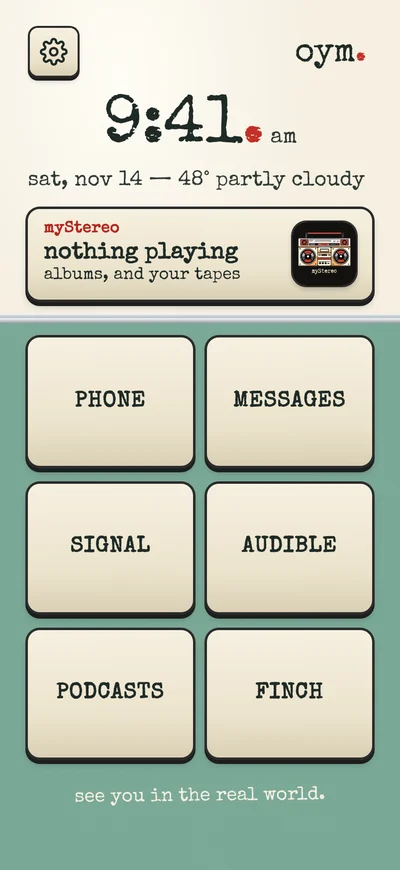
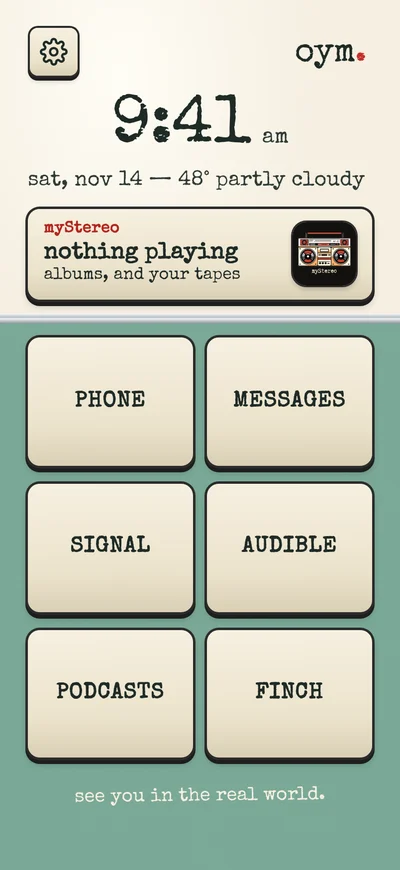
Console 0.1.11: no red dot after the time; the Take one picture shows it
Claude-Session: https://claude.ai/code/session_0141Aj93nrkxU4UMudcKaRvJ

Changed region(s): [[0.27, 0.0931, 0.75, 0.1862]]

diff --git a/mystereo/app/console/index.html b/mystereo/app/console/index.html
@@ -45,7 +45,7 @@ button{background:none;border:0;padding:0;cursor:pointer}
 .chip{border-radius:8px;padding:7px 14px 6px;font-size:15px;box-shadow:0 0 0 2px #2b2b2b,0 3px 0 2px #1e1e1e,0 5px 6px rgba(0,0,0,.22);margin-bottom:3px}
 .chip:active{transform:translateY(2px);box-shadow:0 0 0 2px #2b2b2b,0 1px 0 2px #1e1e1e}
 .clock{font-size:68px;line-height:1;margin:8px 0 0;letter-spacing:-1px;color:var(--ink);text-align:center;font-family:"Special Elite",var(--tw)}   /* 0.1.8 · the clock in the logo's typewriter face */
-.clock small{font-size:22px;margin-left:6px;letter-spacing:0;color:var(--dim)}
+.clock small{font-size:22px;margin-left:12px;letter-spacing:0;color:var(--dim)}
 .date{font-size:21px;margin:8px 0 18px;color:var(--dim)}
 .date button{text-decoration:underline;text-underline-offset:3px}
 /* the strip is a wide keycap, like the six buttons */
@@ -166,7 +166,7 @@ html.custom .band::before{display:none}
 </section>
 <script>
 (() => {
-const VERSION = 'Console 0.1.10';
+const VERSION = 'Console 0.1.11';
 const KEYS = [['phone', 'phone'], ['messages', 'messages'], ['signal', 'signal'], ['audible', 'audible'], ['podcasts', 'podcasts'], ['finch', 'finch']];
 const LINKS = { phone: 'shortcuts://run-shortcut?name=Console%20Phone', messages: 'shortcuts://run-shortcut?name=Console%20Messages', signal: 'sgnl://', audible: 'audible://', podcasts: 'podcasts://', finch: 'shortcuts://run-shortcut?name=Console%20Finch' };
 const STEREO = '../index.html';   /* myStereo, one folder up; its TAPES key opens Flipside */
@@ -203,7 +203,7 @@ $('lightBtn').onclick = mode(false); $('darkBtn').onclick = mode(true);
 const DAYS = ['sun', 'mon', 'tue', 'wed', 'thu', 'fri', 'sat'], MONS = ['jan', 'feb', 'mar', 'apr', 'may', 'jun', 'jul', 'aug', 'sep', 'oct', 'nov', 'dec'];
 function tick() {
   const d = new Date(), h = d.getHours() % 12 || 12, m = String(d.getMinutes()).padStart(2, '0');
-  $('clock').innerHTML = `${h}:${m}<span class="red">.</span><small>${d.getHours() < 12 ? 'am' : 'pm'}</small>`;
+  $('clock').innerHTML = `${h}:${m}<small>${d.getHours() < 12 ? 'am' : 'pm'}</small>`;   /* 0.1.11 · no red dot after the time */
   $('barClock').textContent = `${h}:${m}`;
   $('date').textContent = `${DAYS[d.getDay()]}, ${MONS[d.getMonth()]} ${d.getDate()}`;
   setTimeout(tick, 1000 * (60 - d.getSeconds()) + 50);
